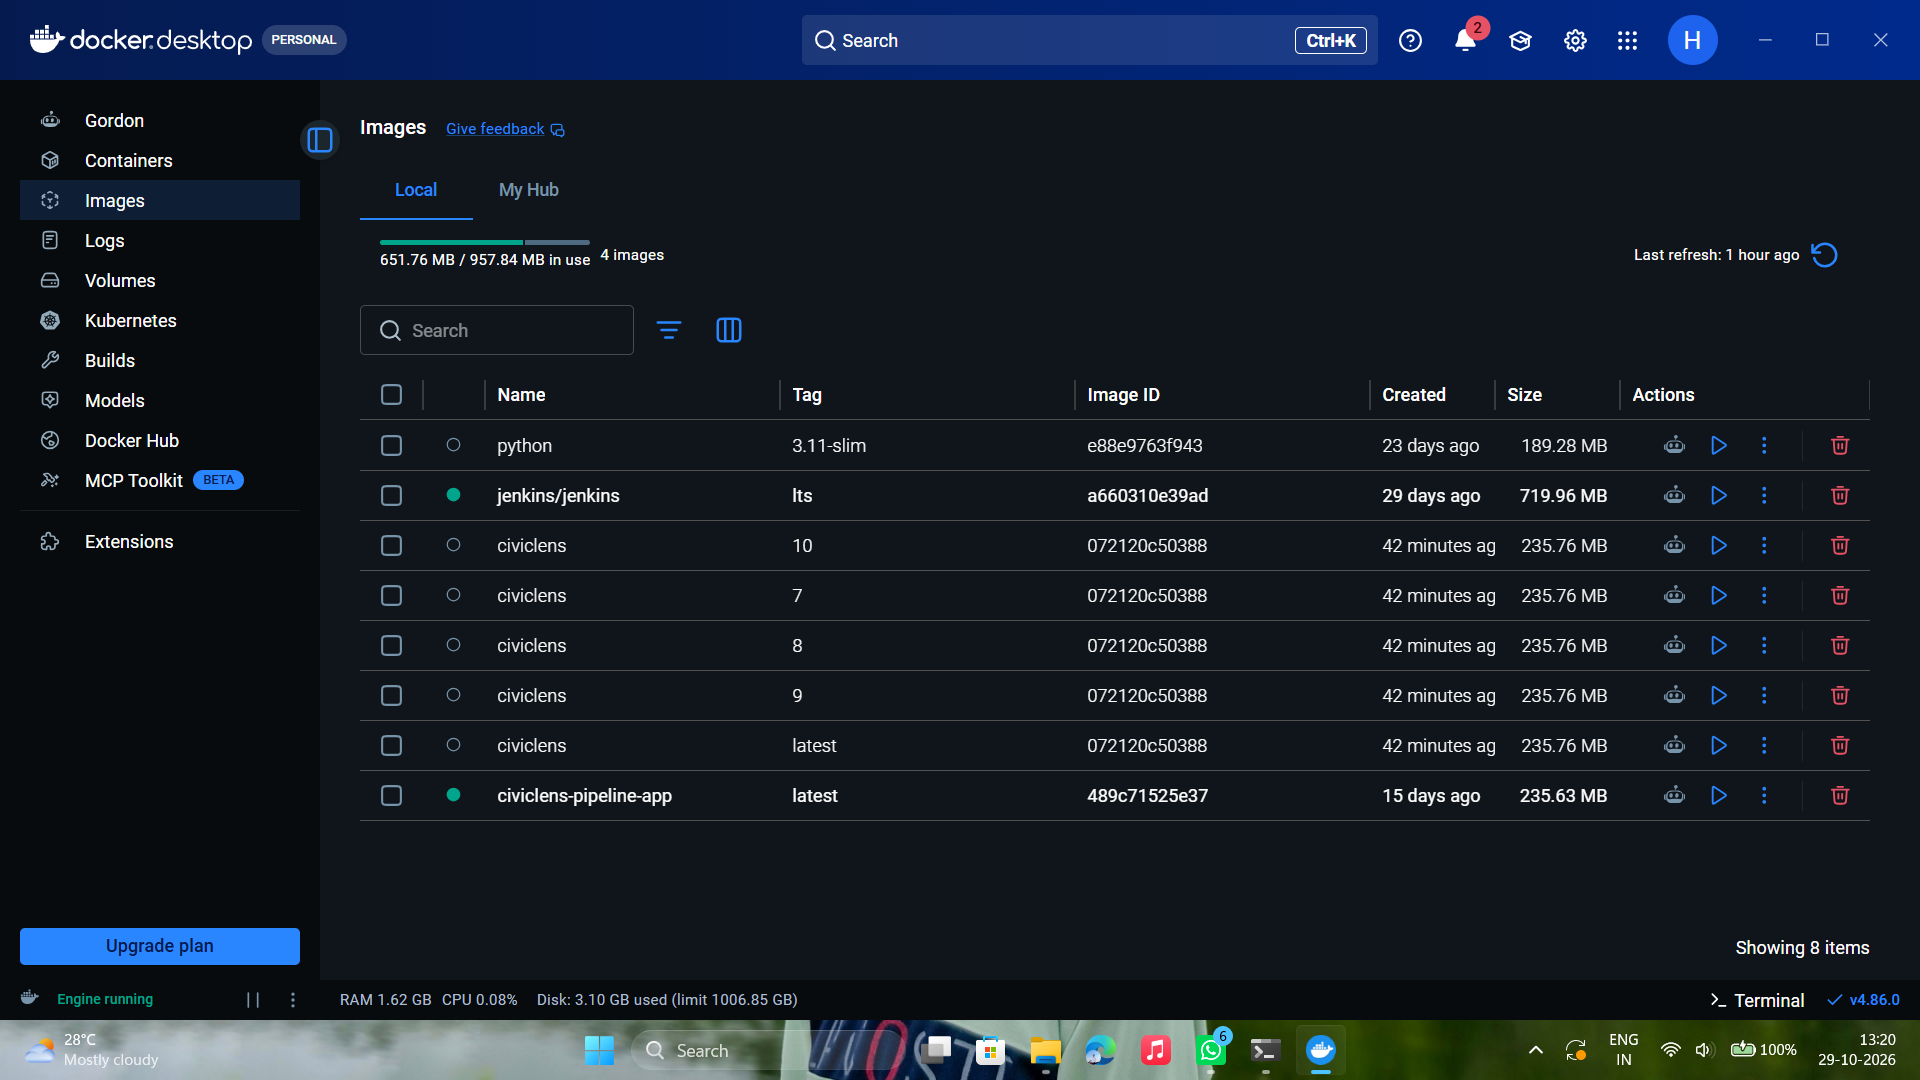
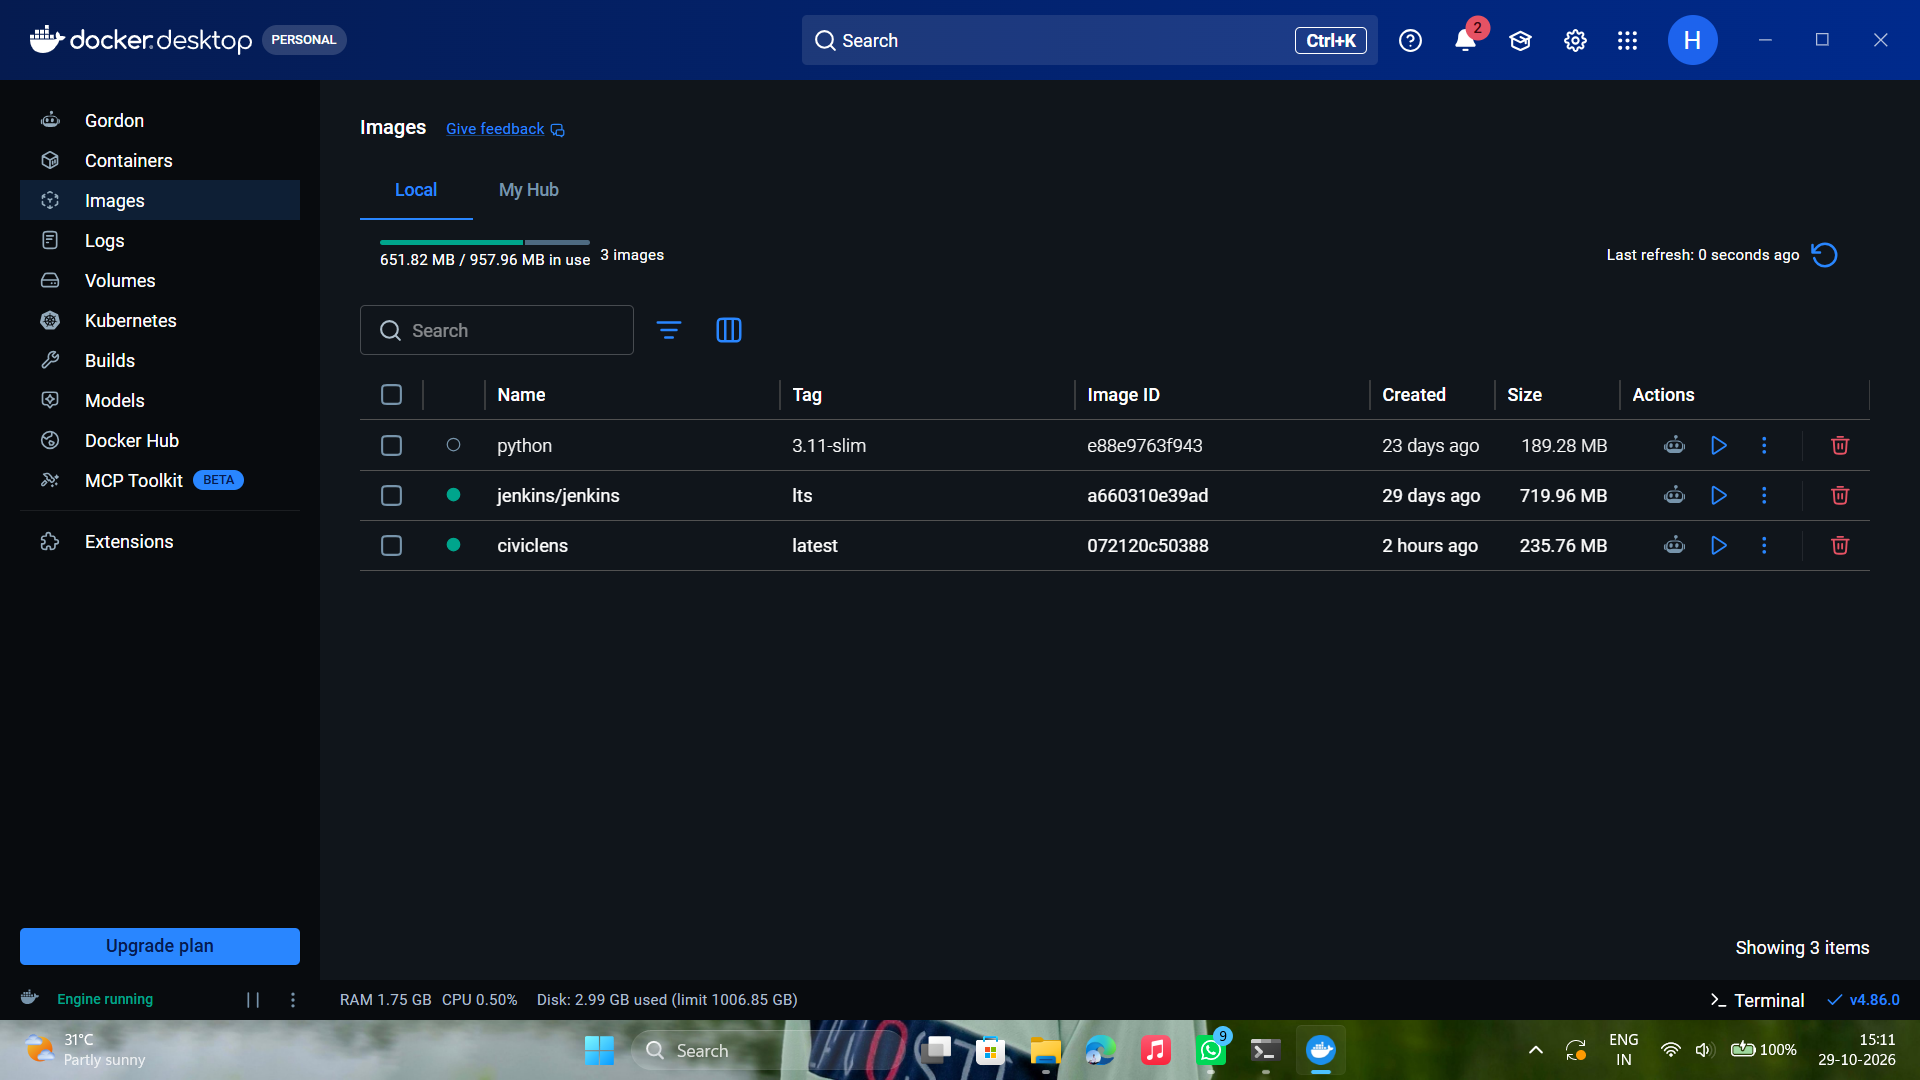
Re-shoot the Docker showcase screenshots after the image cleanup
The old captures still advertised civiclens:7/8/9/10, the legacy
civiclens-pipeline-app image and the pre-cleanup container. The new 1920x1080
captures show the real state: three images total (civiclens:latest plus the two
base images) and civiclens-app running on civiclens:latest.

diff --git a/Showcase/README.md b/Showcase/README.md
@@ -40,8 +40,8 @@ All app/Jenkins screenshots are **1600 × 1000**; Docker Desktop screenshots are
 | `05-app-report-form.png` | Report form filled with title, category, description, address and coordinates |
 | `06-app-search-filter.png` | Search for “drain” → two matching reports |
 | `07-app-about.png` | About modal: problem, solution, stack and “14 tests passing” |
-| `08-docker-containers.png` | Docker Desktop → Containers: `jenkins` and `civiclens-app` running, plus the `civiclens-pipeline` Compose group |
-| `09-docker-images.png` | Docker Desktop → Images: per-build `civiclens:10` (plus tags 7/8/9/latest), Compose image `civiclens-pipeline-app` (235.63 MB), and base images — captured before the image cleanup |
+| `08-docker-containers.png` | Docker Desktop → Containers: `jenkins` and `civiclens-app` (running the `civiclens:latest` image) plus the `civiclens-pipeline` Compose group |
+| `09-docker-images.png` | Docker Desktop → Images after cleanup: only three images — `civiclens:latest` (235.76 MB) plus the `python:3.11-slim` and `jenkins/jenkins:lts` base images |
 | `10-jenkins-dashboard.png` | Jenkins dashboard: job green, last success **#10**, last duration 10 s |
 | `11-jenkins-job.png` | Job page: description, permalinks and build history (#10 latest) |
 | `12-jenkins-build.png` | Build #10 summary: success, commit, repository, “Took 10 sec” |
